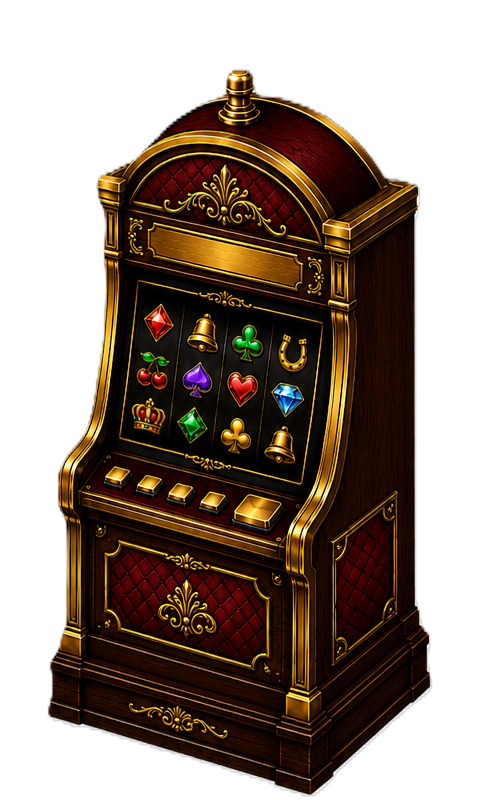
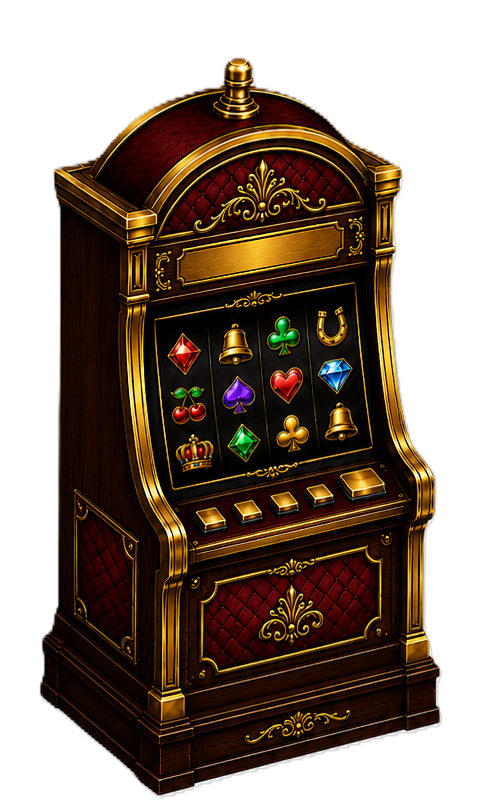
Presentation V2 — fix slot sprite facing mapping
Swap the slot-machine-e.png and slot-machine-s.png contents on disk so
each filename matches its real visual direction, mirror slot-machine-w.png
horizontally so W points upper-left instead of upper-right, and update
the manifest's per-entry visibleHeightPx to track the new file contents.
slot-machine-n.png is unchanged.

diff --git a/casino-web/src/v2/render/assets/ObjectSpriteManifest.ts b/casino-web/src/v2/render/assets/ObjectSpriteManifest.ts
@@ -32,10 +32,10 @@ const BASE = import.meta.env.BASE_URL;
 // centred. anchorX=0.5, anchorY=1.0 places the bottom-centre of the
 // sprite at the renderer's chosen world position.
 //
-// visibleHeightPx values come from the alpha bounding boxes measured
-// at extraction time:
-//   S: 743 px, N: 701 px, W: 680 px, E: 734 px
-// They drive the scale formula: scale = (ts * targetHeightTiles) / visibleHeightPx
+// visibleHeightPx values come from the alpha bounding boxes of the
+// final shipped PNG content. They drive the scale formula:
+//   scale = (ts * targetHeightTiles) / visibleHeightPx
+// Re-measure and update if a sprite file is replaced or mirrored.
 export const OBJECT_SPRITES: readonly ObjectSpriteEntry[] = [
   {
     type             : GC.ObjType.SLOT_MACHINE,
@@ -46,7 +46,7 @@ export const OBJECT_SPRITES: readonly ObjectSpriteEntry[] = [
     anchorY          : 1.0,
     refTileSize      : 46,
     targetHeightTiles: 2.25,
-    visibleHeightPx  : 743,
+    visibleHeightPx  : 730,
   },
   {
     type             : GC.ObjType.SLOT_MACHINE,
@@ -57,7 +57,7 @@ export const OBJECT_SPRITES: readonly ObjectSpriteEntry[] = [
     anchorY          : 1.0,
     refTileSize      : 46,
     targetHeightTiles: 2.25,
-    visibleHeightPx  : 701,
+    visibleHeightPx  : 698,
   },
   {
     type             : GC.ObjType.SLOT_MACHINE,
@@ -68,7 +68,7 @@ export const OBJECT_SPRITES: readonly ObjectSpriteEntry[] = [
     anchorY          : 1.0,
     refTileSize      : 46,
     targetHeightTiles: 2.25,
-    visibleHeightPx  : 734,
+    visibleHeightPx  : 743,
   },
   {
     type             : GC.ObjType.SLOT_MACHINE,
